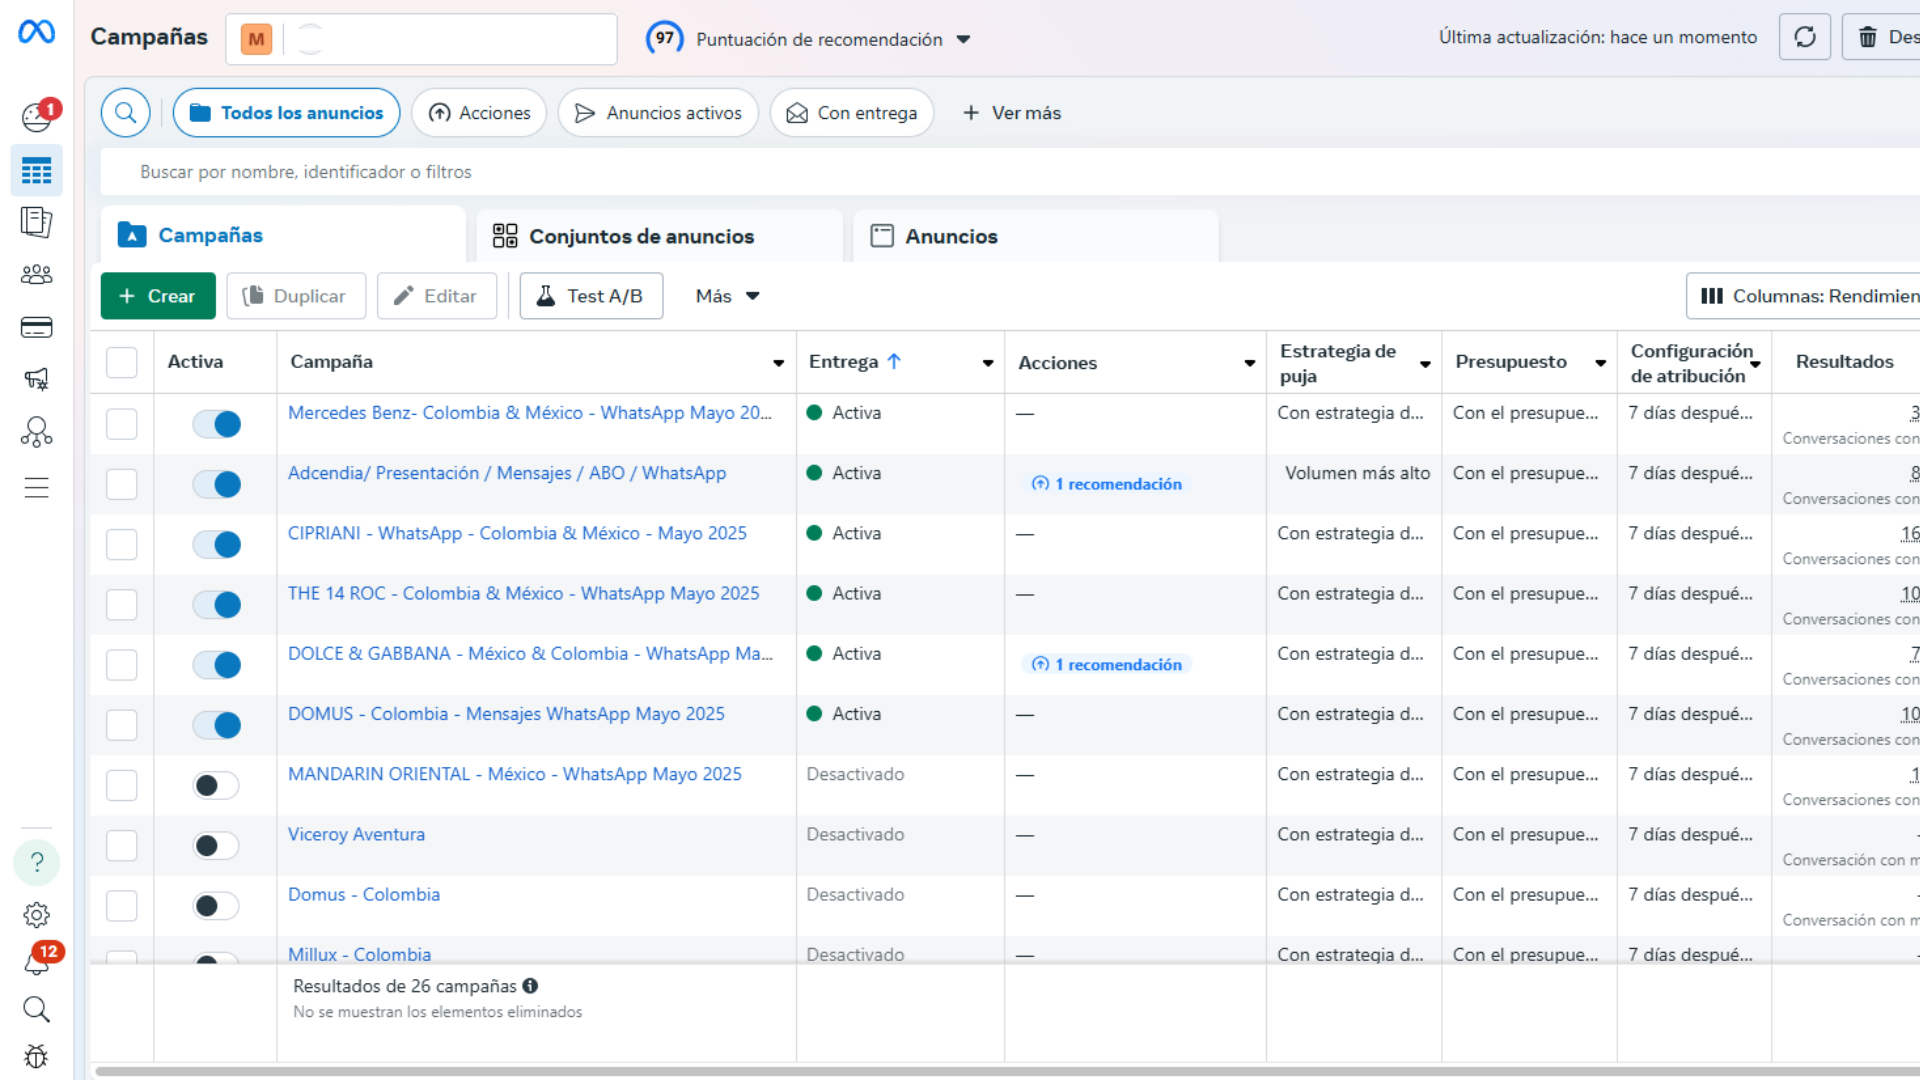
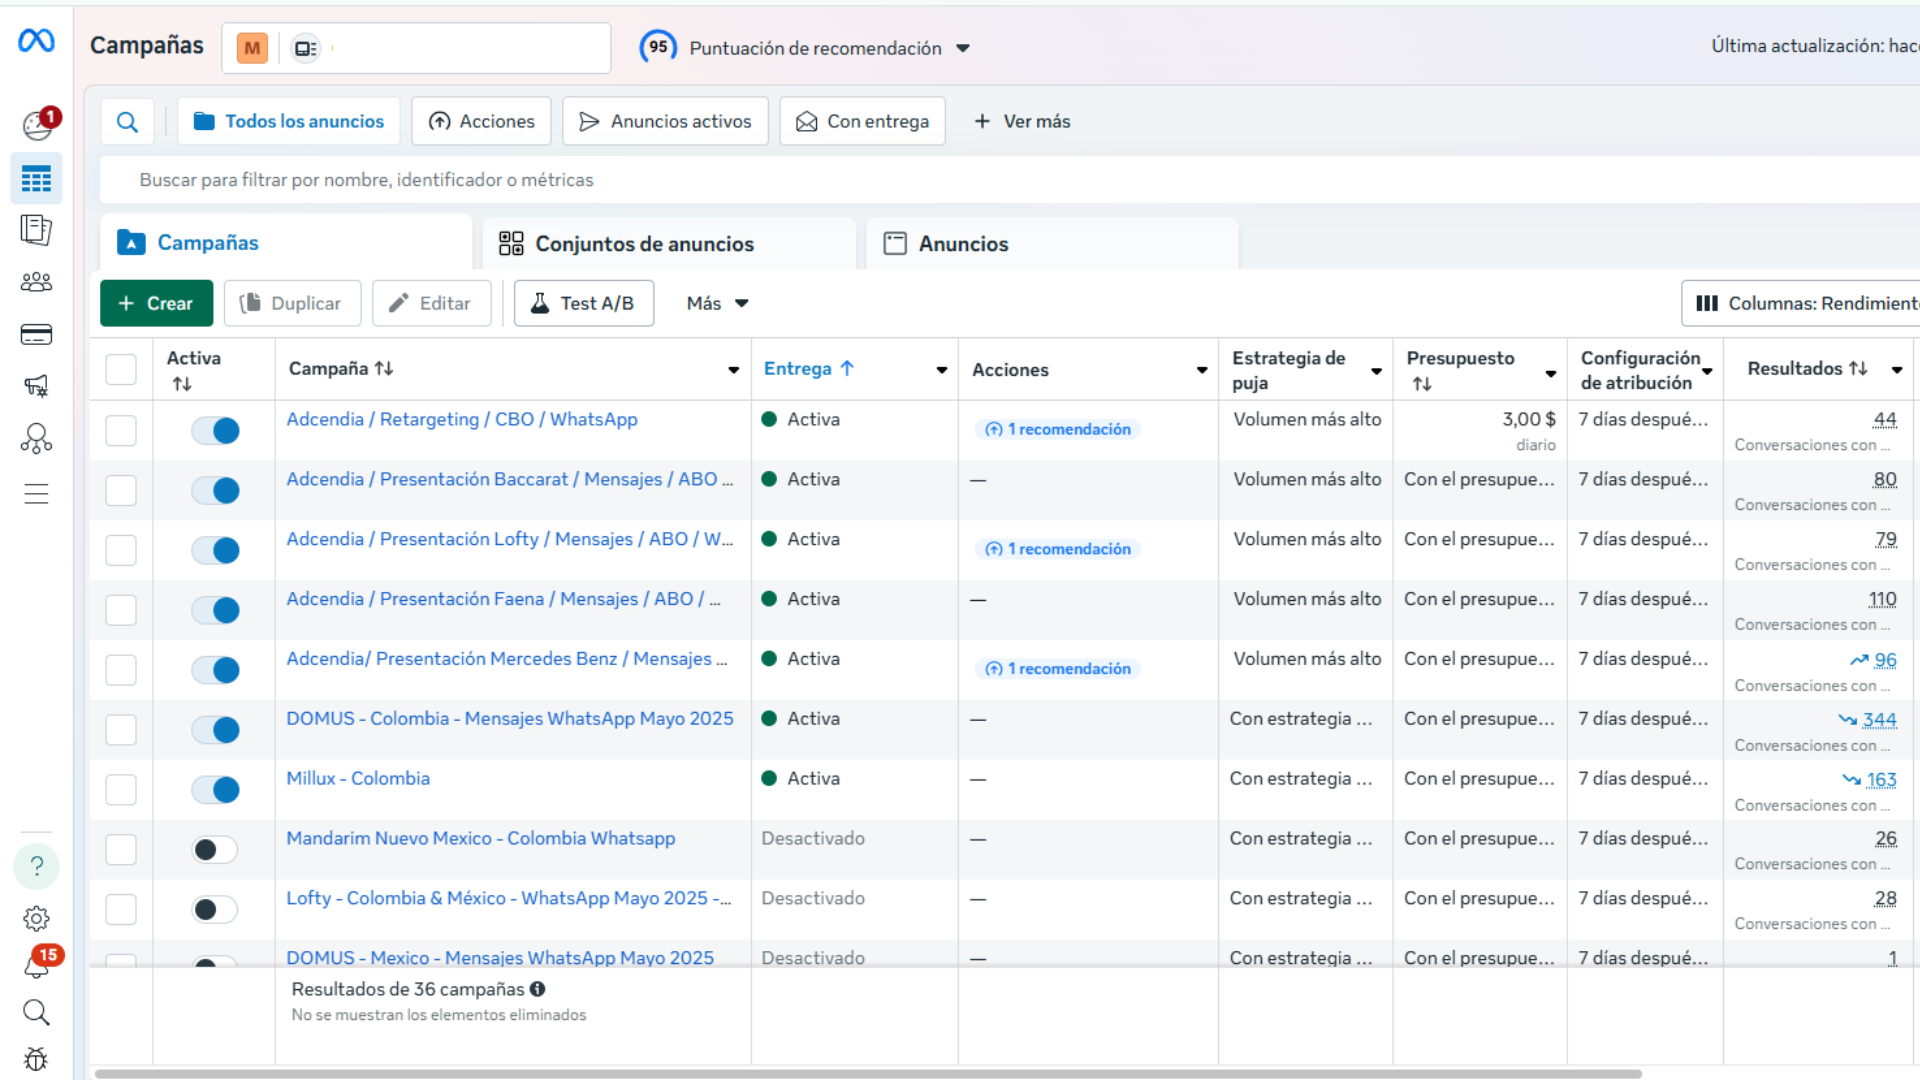
Improve copy and update "how we deliver" section
- Improve copy follwing requirements with more specific info for the
target client

- Change how we deliver section with actual information about the
adcendia process

Fix: styles in the hero

diff --git a/tailwind.config.js b/tailwind.config.js
@@ -1,0 +1,8 @@
+/** @type {import('tailwindcss').Config} */
+module.exports = {
+  content: ["./src/**/*.{astro,html,js,jsx,md,mdx,svelte,ts,tsx,vue}"],
+  theme: {
+    extend: {},
+  },
+  plugins: [],
+};